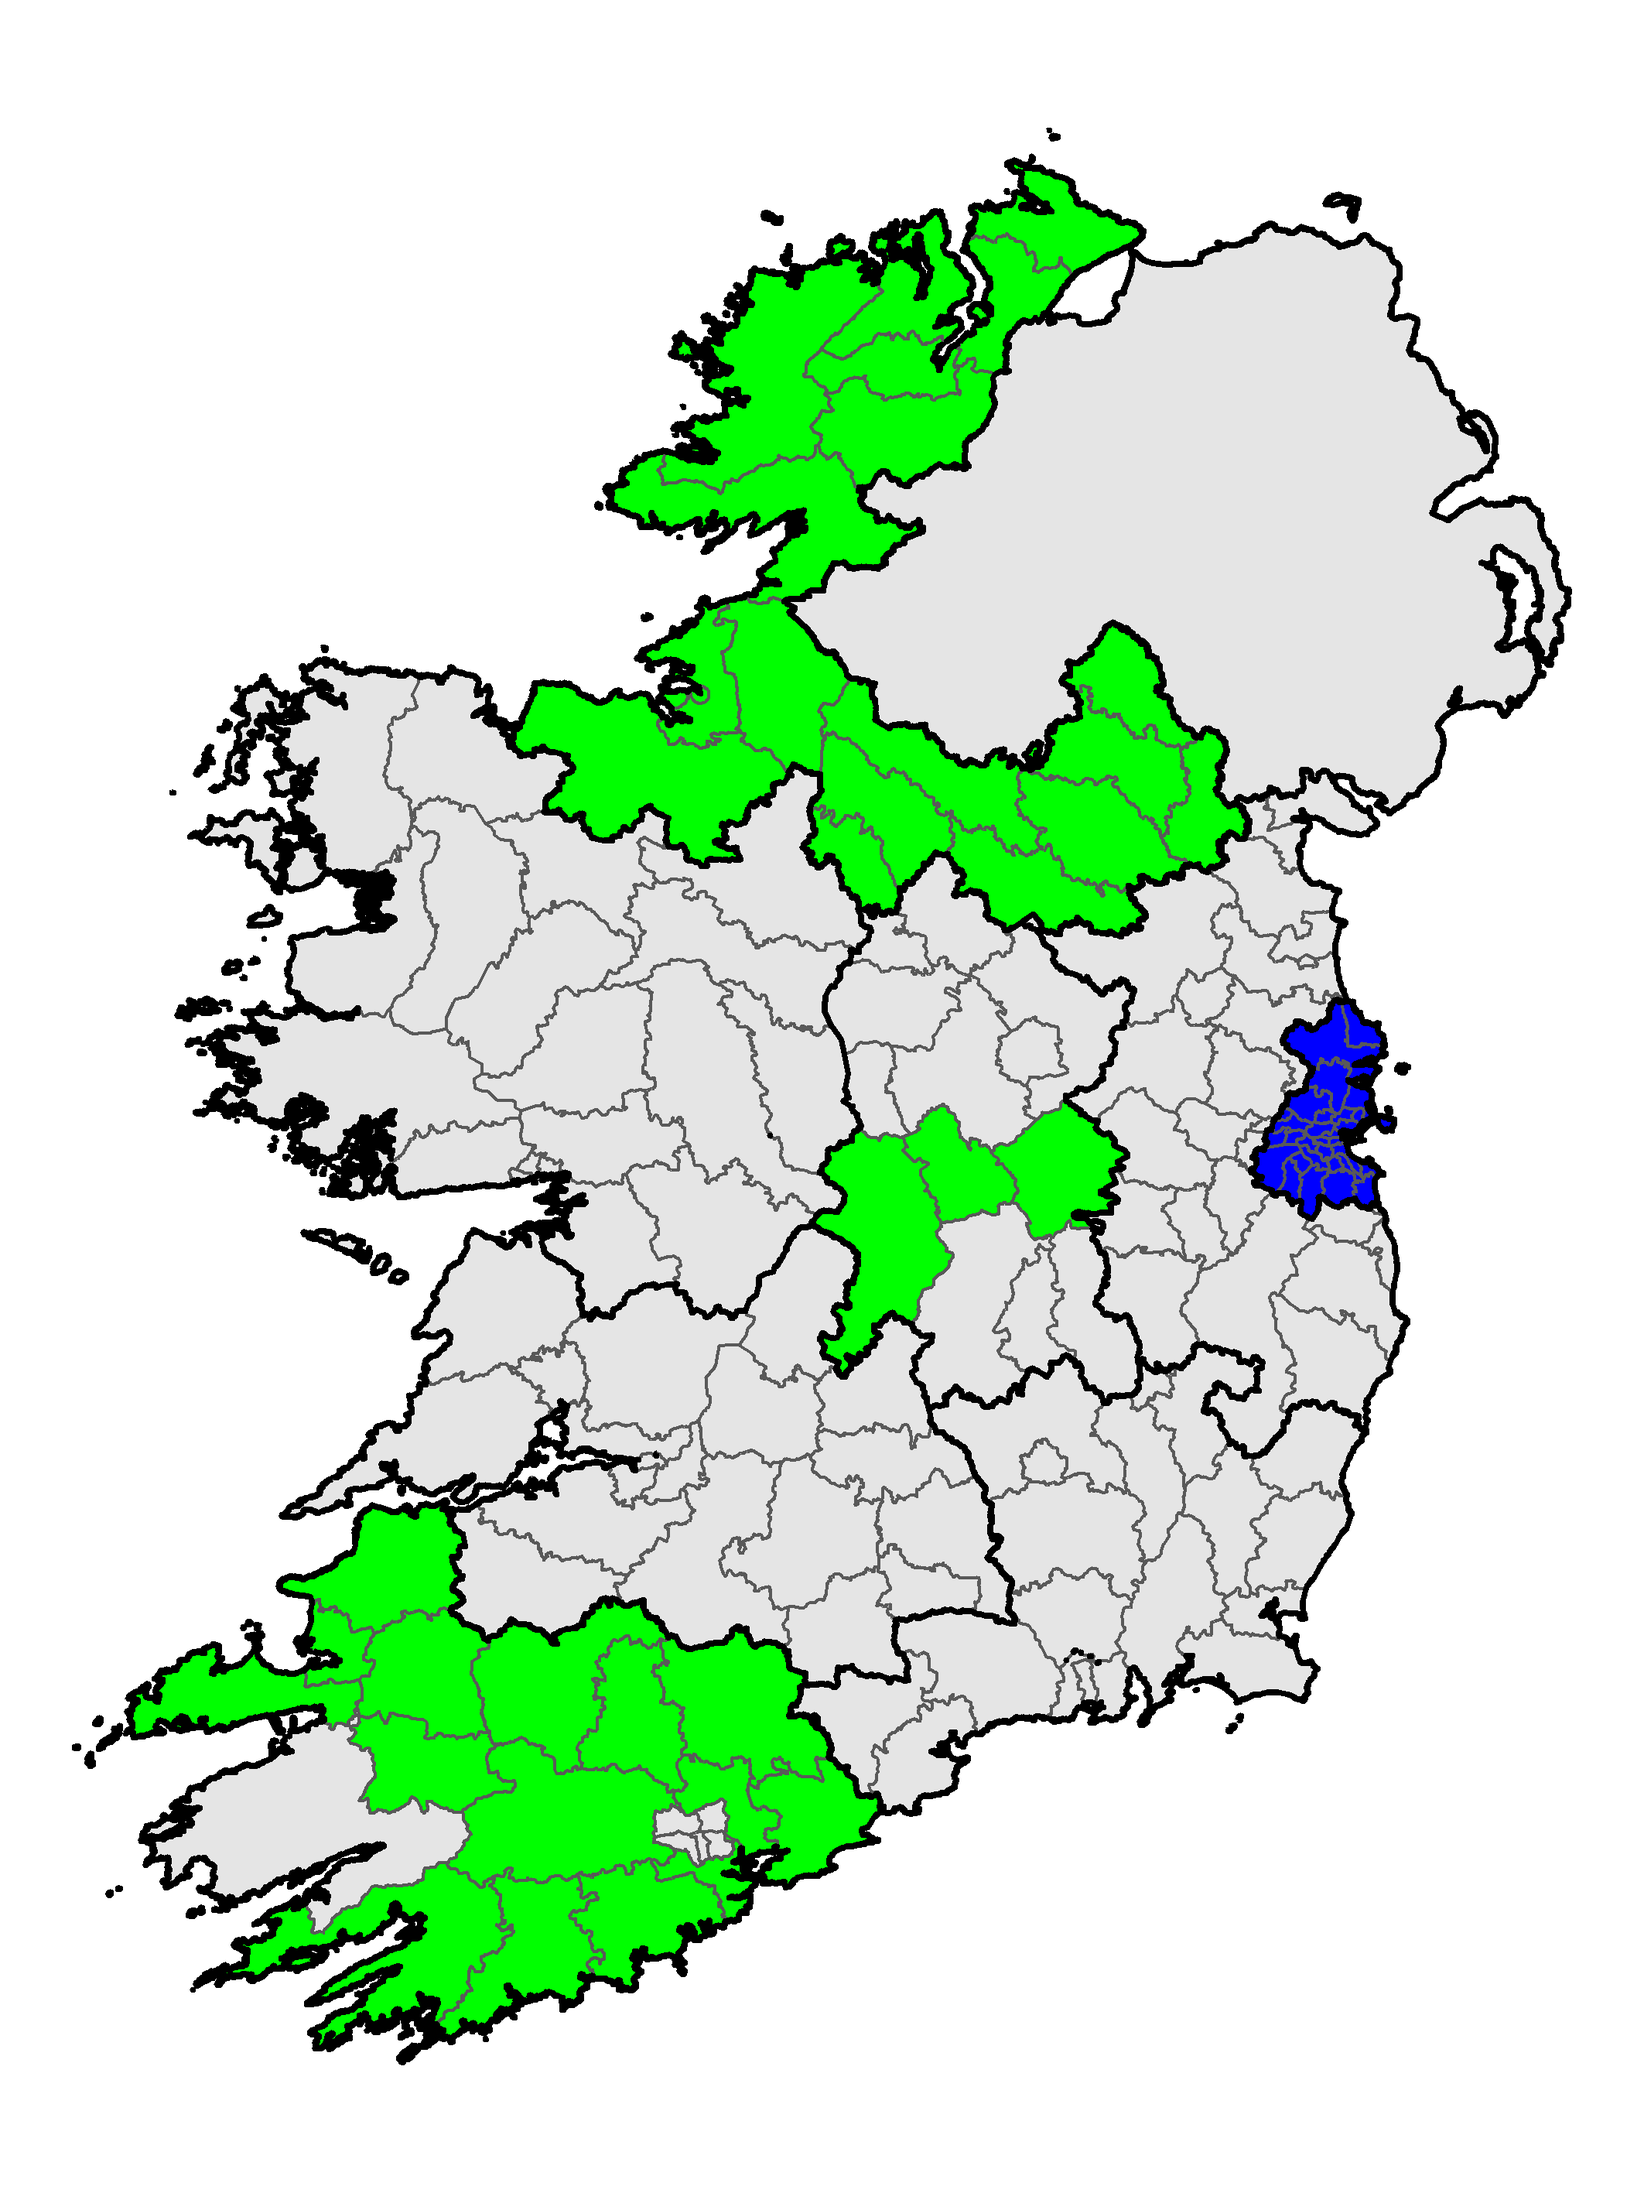
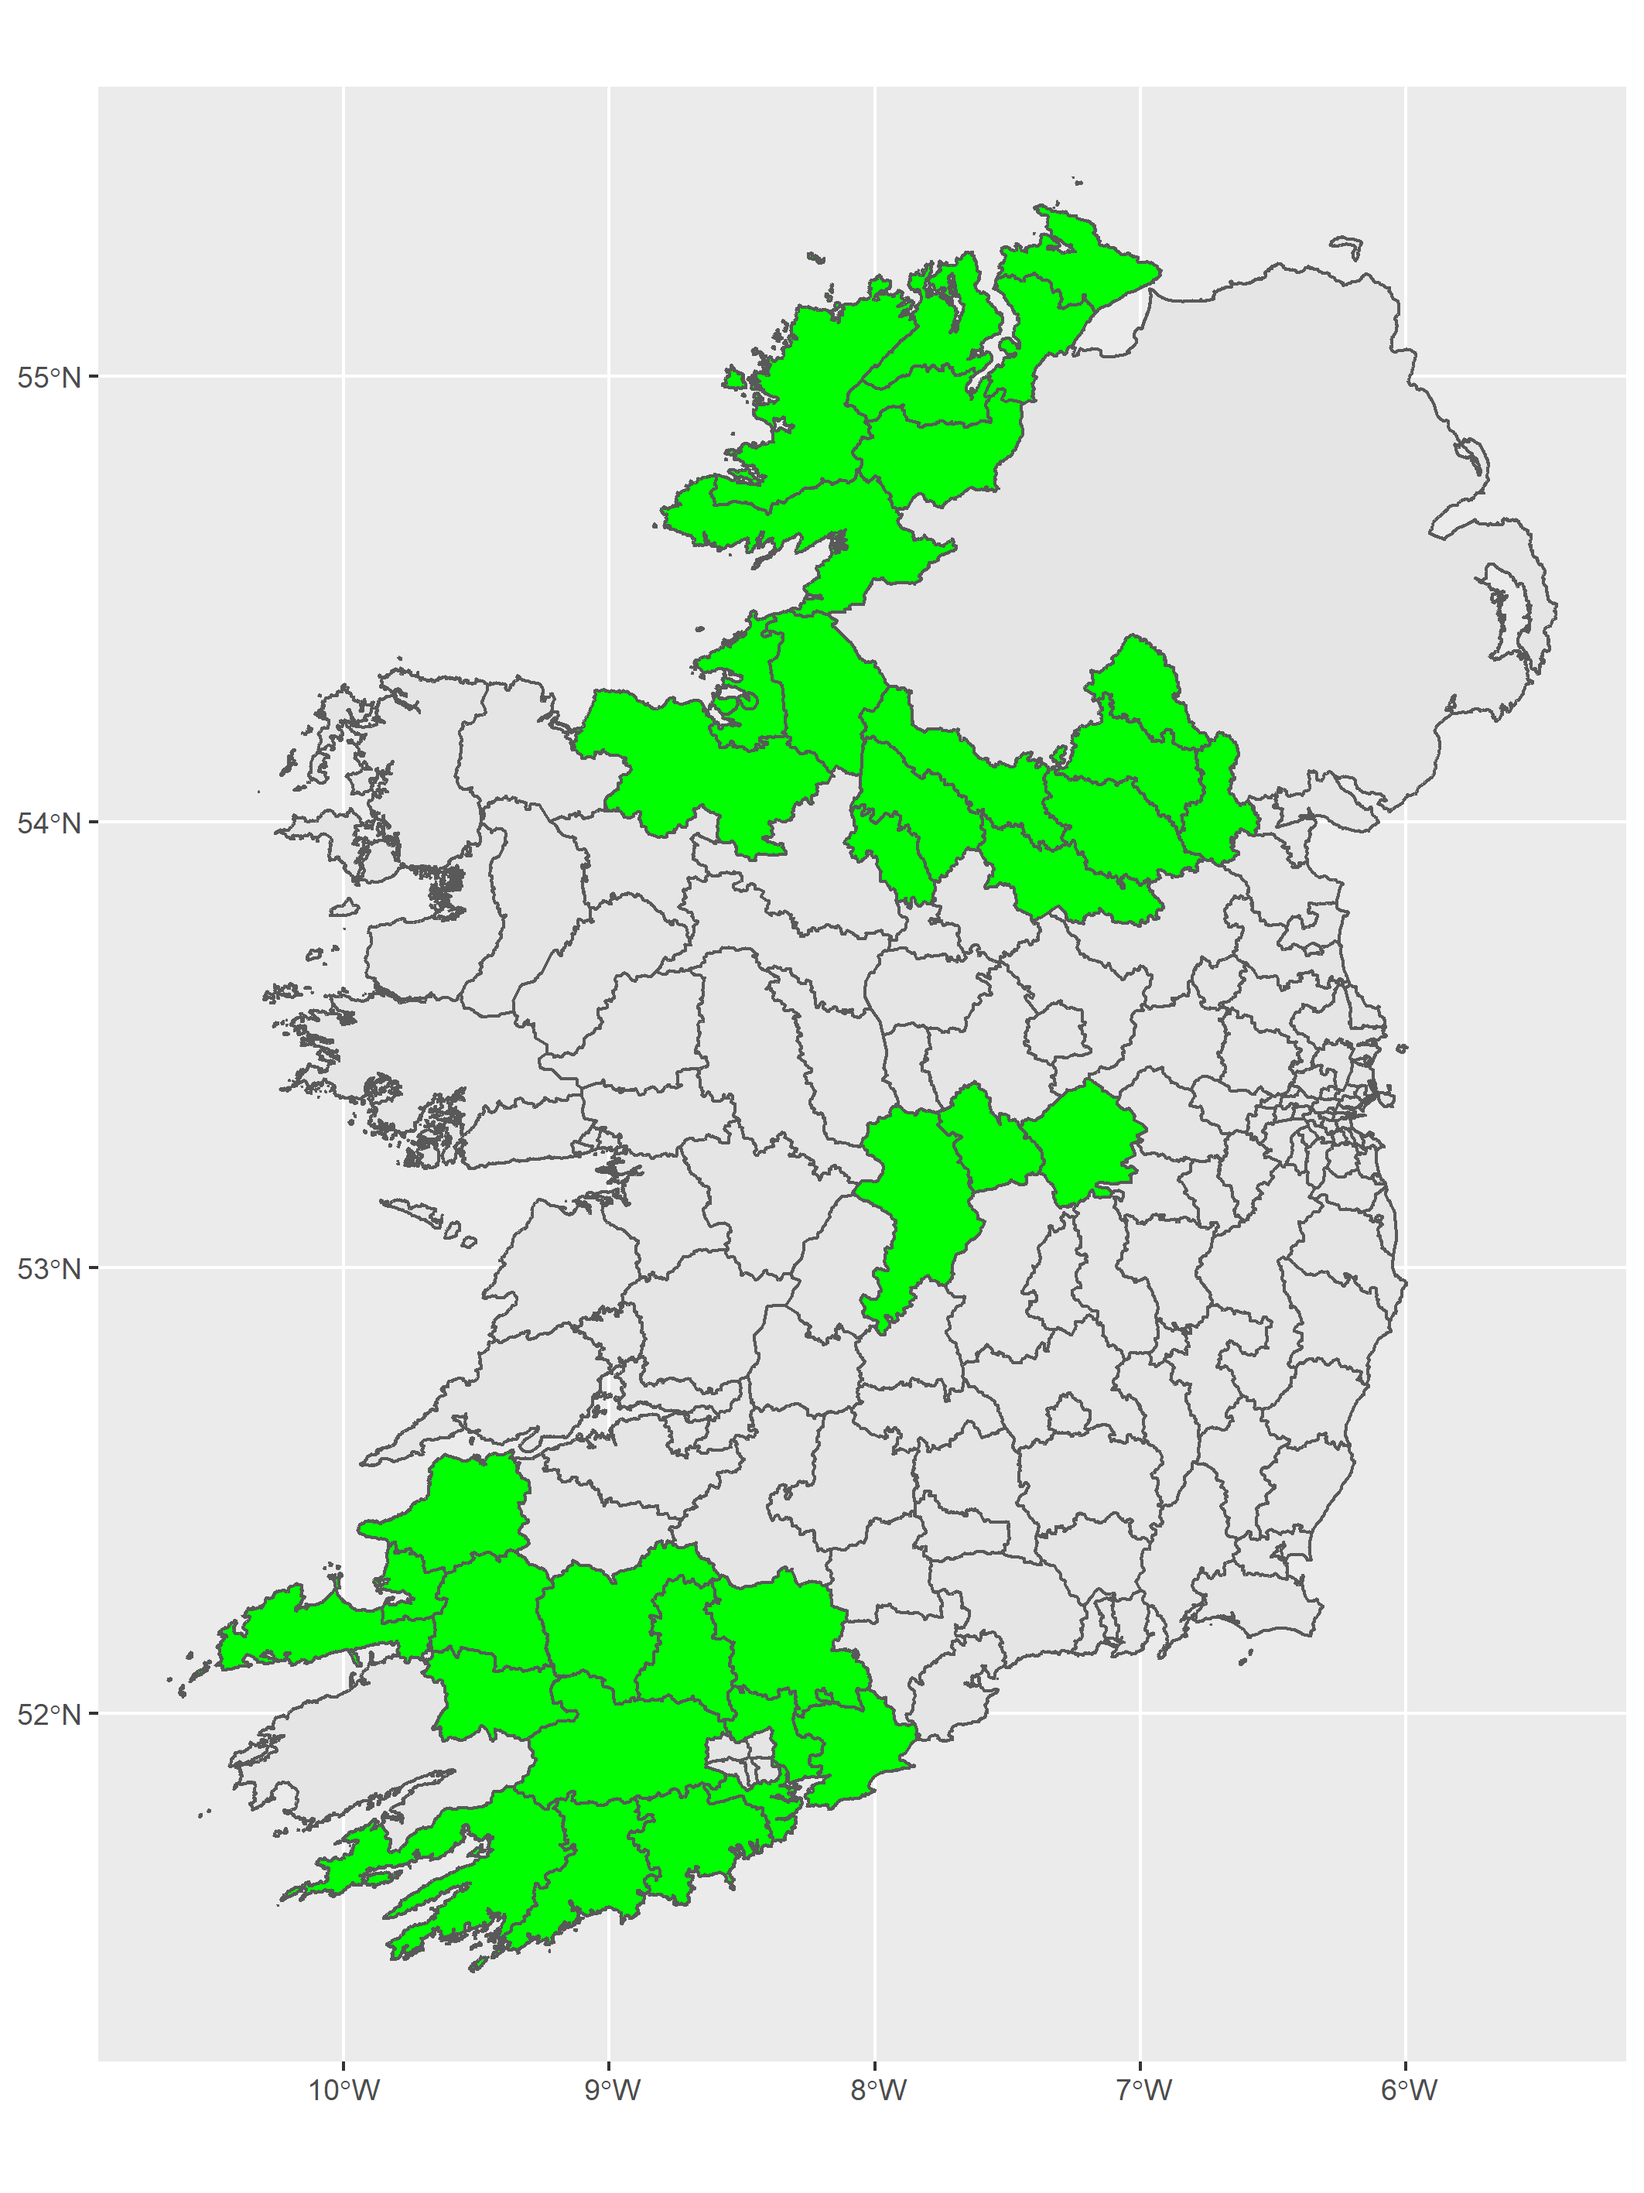
chloros

diff --git a/docs/index.html b/docs/index.html
@@ -270,7 +270,7 @@ library(sf)</code></pre>
   filter(NUTS3 %in% c(&quot;Border&quot; ,&quot;South-West&quot;) | COUNTY ==&quot;Offaly&quot; , 
          LEA != &quot;Kenmare&quot;, 
          ! str_detect(LEA , &quot;Cork City&quot;)) </code></pre>
-<p>Note the use of <code>!</code> above in front of the <code>str_detect</code> function, which negates or produces the opposite of the logical expression in front of it. You could have used <code>&amp;</code> instead of the commas in the argument of <code>filter</code> above, but using logical AND as well as logical OR can be unambiguous, so you should use extra brackets if doing so. Anyway, let’s plot <code>selected_areas</code>.</p>
+<p>Note the use of <code>!</code> above in front of the <code>str_detect</code> function, which negates or produces the opposite of the logical expression in front of it. You could have used <code>&amp;</code> instead of the commas in the argument of <code>filter</code> above, but using logical AND as well as logical OR can be ambiguous, so you should use extra brackets if doing so. Anyway, let’s plot <code>selected_areas</code>.</p>
 <pre class="r"><code>ggplot() + 
   geom_sf(data = lea_166) +
   geom_sf(data = selected_areas , fill=&quot;green&quot;)</code></pre>
@@ -293,27 +293,54 @@ ggplot() +
   theme_void()</code></pre>
 <p><img src="index_files/figure-html/nuts_outline%20-1.png" width="672" /></p>
 </div>
-<div id="assigning-plots-to-an-object-with-a-name" class="section level2">
-<h2>Assigning plots to an object with a name</h2>
+<div id="creating-named-objects-from-plots" class="section level2">
+<h2>Creating named objects from plots</h2>
 <p>Rather than simply plotting a ggplot object immediately, you can turn it into an object in the R environment with its own name. For example, let’s take the first three lines of the previous <code>ggplot</code> statement and make an object called <code>base_plot</code>:</p>
 <pre class="r"><code>base_plot &lt;- ggplot() + 
   geom_sf(data = lea_166) +
   geom_sf(data = selected_areas , fill=&quot;green&quot;) </code></pre>
-<p>Now we can add to this as we please (resulting plot not shown, same as previous image). You might like to try this approach if you are making several plots which have a certain amount of detail in common.</p>
+<p>Now we can add to this as we please (resulting plot not shown, it’s the same as previous image). You might like to try this approach if you are making several plots which have a certain amount of detail in common.</p>
 <pre class="r"><code>base_plot + 
   geom_sf(data = lea_166 %&gt;% filter(COUNTY==&quot;Dublin&quot;) , fill=&quot;blue&quot;) +
   geom_sf(data = nuts_outline , fill= NA , colour=&quot;black&quot;, size=1) +
   theme_void()  </code></pre>
-<p><img src="index_files/figure-html/base_plot_2%20-1.png" width="672" /></p>
 </div>
 <div id="saving-plots" class="section level2">
 <h2>Saving plots</h2>
-<p>The function used to save plots is <code>ggsave</code>. By default it saves the last plot displayed. Here is how it is used:</p>
+<p>The function used to save plots is <code>ggsave</code>. By default it saves the last plot displayed. The code below shows how it is used. You can adjust the height, width and units depending on your needs.</p>
 <pre class="r"><code>ggsave(file = &quot;images/map_with_selected_areas.png&quot; , width=18, height = 24, units=&quot;cm&quot;) </code></pre>
-<p>You can save a named plot to file by creating a named object from a <code>ggplot</code> statement and passing that to <code>ggsave</code> using <code>plot =</code></p>
+<p>You can save a named plot to file using the using <code>plot =</code> argument within <code>ggsave</code>. Let’s create <code>simple_lea_map</code> and save that.</p>
 <pre class="r"><code>simple_lea_map &lt;- ggplot() + geom_sf(data = lea_166)
 
 ggsave(file = &quot;images/simple_lea_map.png&quot; , plot = simple_lea_map, width=18, height = 24, units=&quot;cm&quot;) </code></pre>
+</div>
+<div id="plotting-continuous-variables" class="section level2">
+<h2>Plotting continuous variables</h2>
+<p>Let’s say we want to create a map where the colour varies in proportion to a particular variable (a chloropleth). We’ll make one where the colour varies by Population in each LEA, since this is already a column on <code>lea_166</code> (the variable name is Pop2016). We can do that as follows:</p>
+<pre class="r"><code>ggplot() + geom_sf(data = lea_166 , aes(fill=Pop2016))</code></pre>
+<p><img src="index_files/figure-html/chloro_1%20-1.png" width="672" /></p>
+<p>Note the <code>aes()</code> function within <code>geom_sf()</code>. This is for aesthetic mappings, and is very commonly used within ggplot for specifying dimensions. Find out more about this function <a href="https://www.rdocumentation.org/packages/ggplot2/versions/3.3.5/topics/aes">here</a>.</p>
+<p>You’ll see that the colour varies from dark blue to light blue. There are a few easy ways to choose a different range of colours. The first is using <code>scale_fill_distiller</code>:</p>
+<pre class="r"><code>ggplot() + geom_sf(data = lea_166 , aes(fill=Pop2016)) +
+  scale_fill_distiller(palette = &quot;Blues&quot;)</code></pre>
+<p><img src="index_files/figure-html/chloro_2%20-1.png" width="672" /></p>
+<pre class="r"><code>ggplot() + geom_sf(data = lea_166 , aes(fill=Pop2016)) +
+  scale_fill_gradient2(low = &quot;blue&quot;, high = &quot;red&quot;, mid = &quot;white&quot;, midpoint = 35000)</code></pre>
+<p><img src="index_files/figure-html/chloro_3%20-1.png" width="672" /></p>
+</div>
+<div id="hatching-and-cross-hatching-regions-in-a-map" class="section level2">
+<h2>Hatching and cross hatching regions in a map</h2>
+</div>
+<div id="plotting-point-locations-in-a-map" class="section level2">
+<h2>Plotting point locations in a map</h2>
+<p>How to import a csv and convert it so an sf object.</p>
+</div>
+<div id="assigning-point-locations-to-regions-in-the-map" class="section level2">
+<h2>Assigning point locations to regions in the map</h2>
+</div>
+<div id="overlapping-areas-and-calculating-area" class="section level2">
+<h2>Overlapping areas and calculating area</h2>
+<p>Create a file for Gaeltacht areas.</p>
 </div>
 
 
